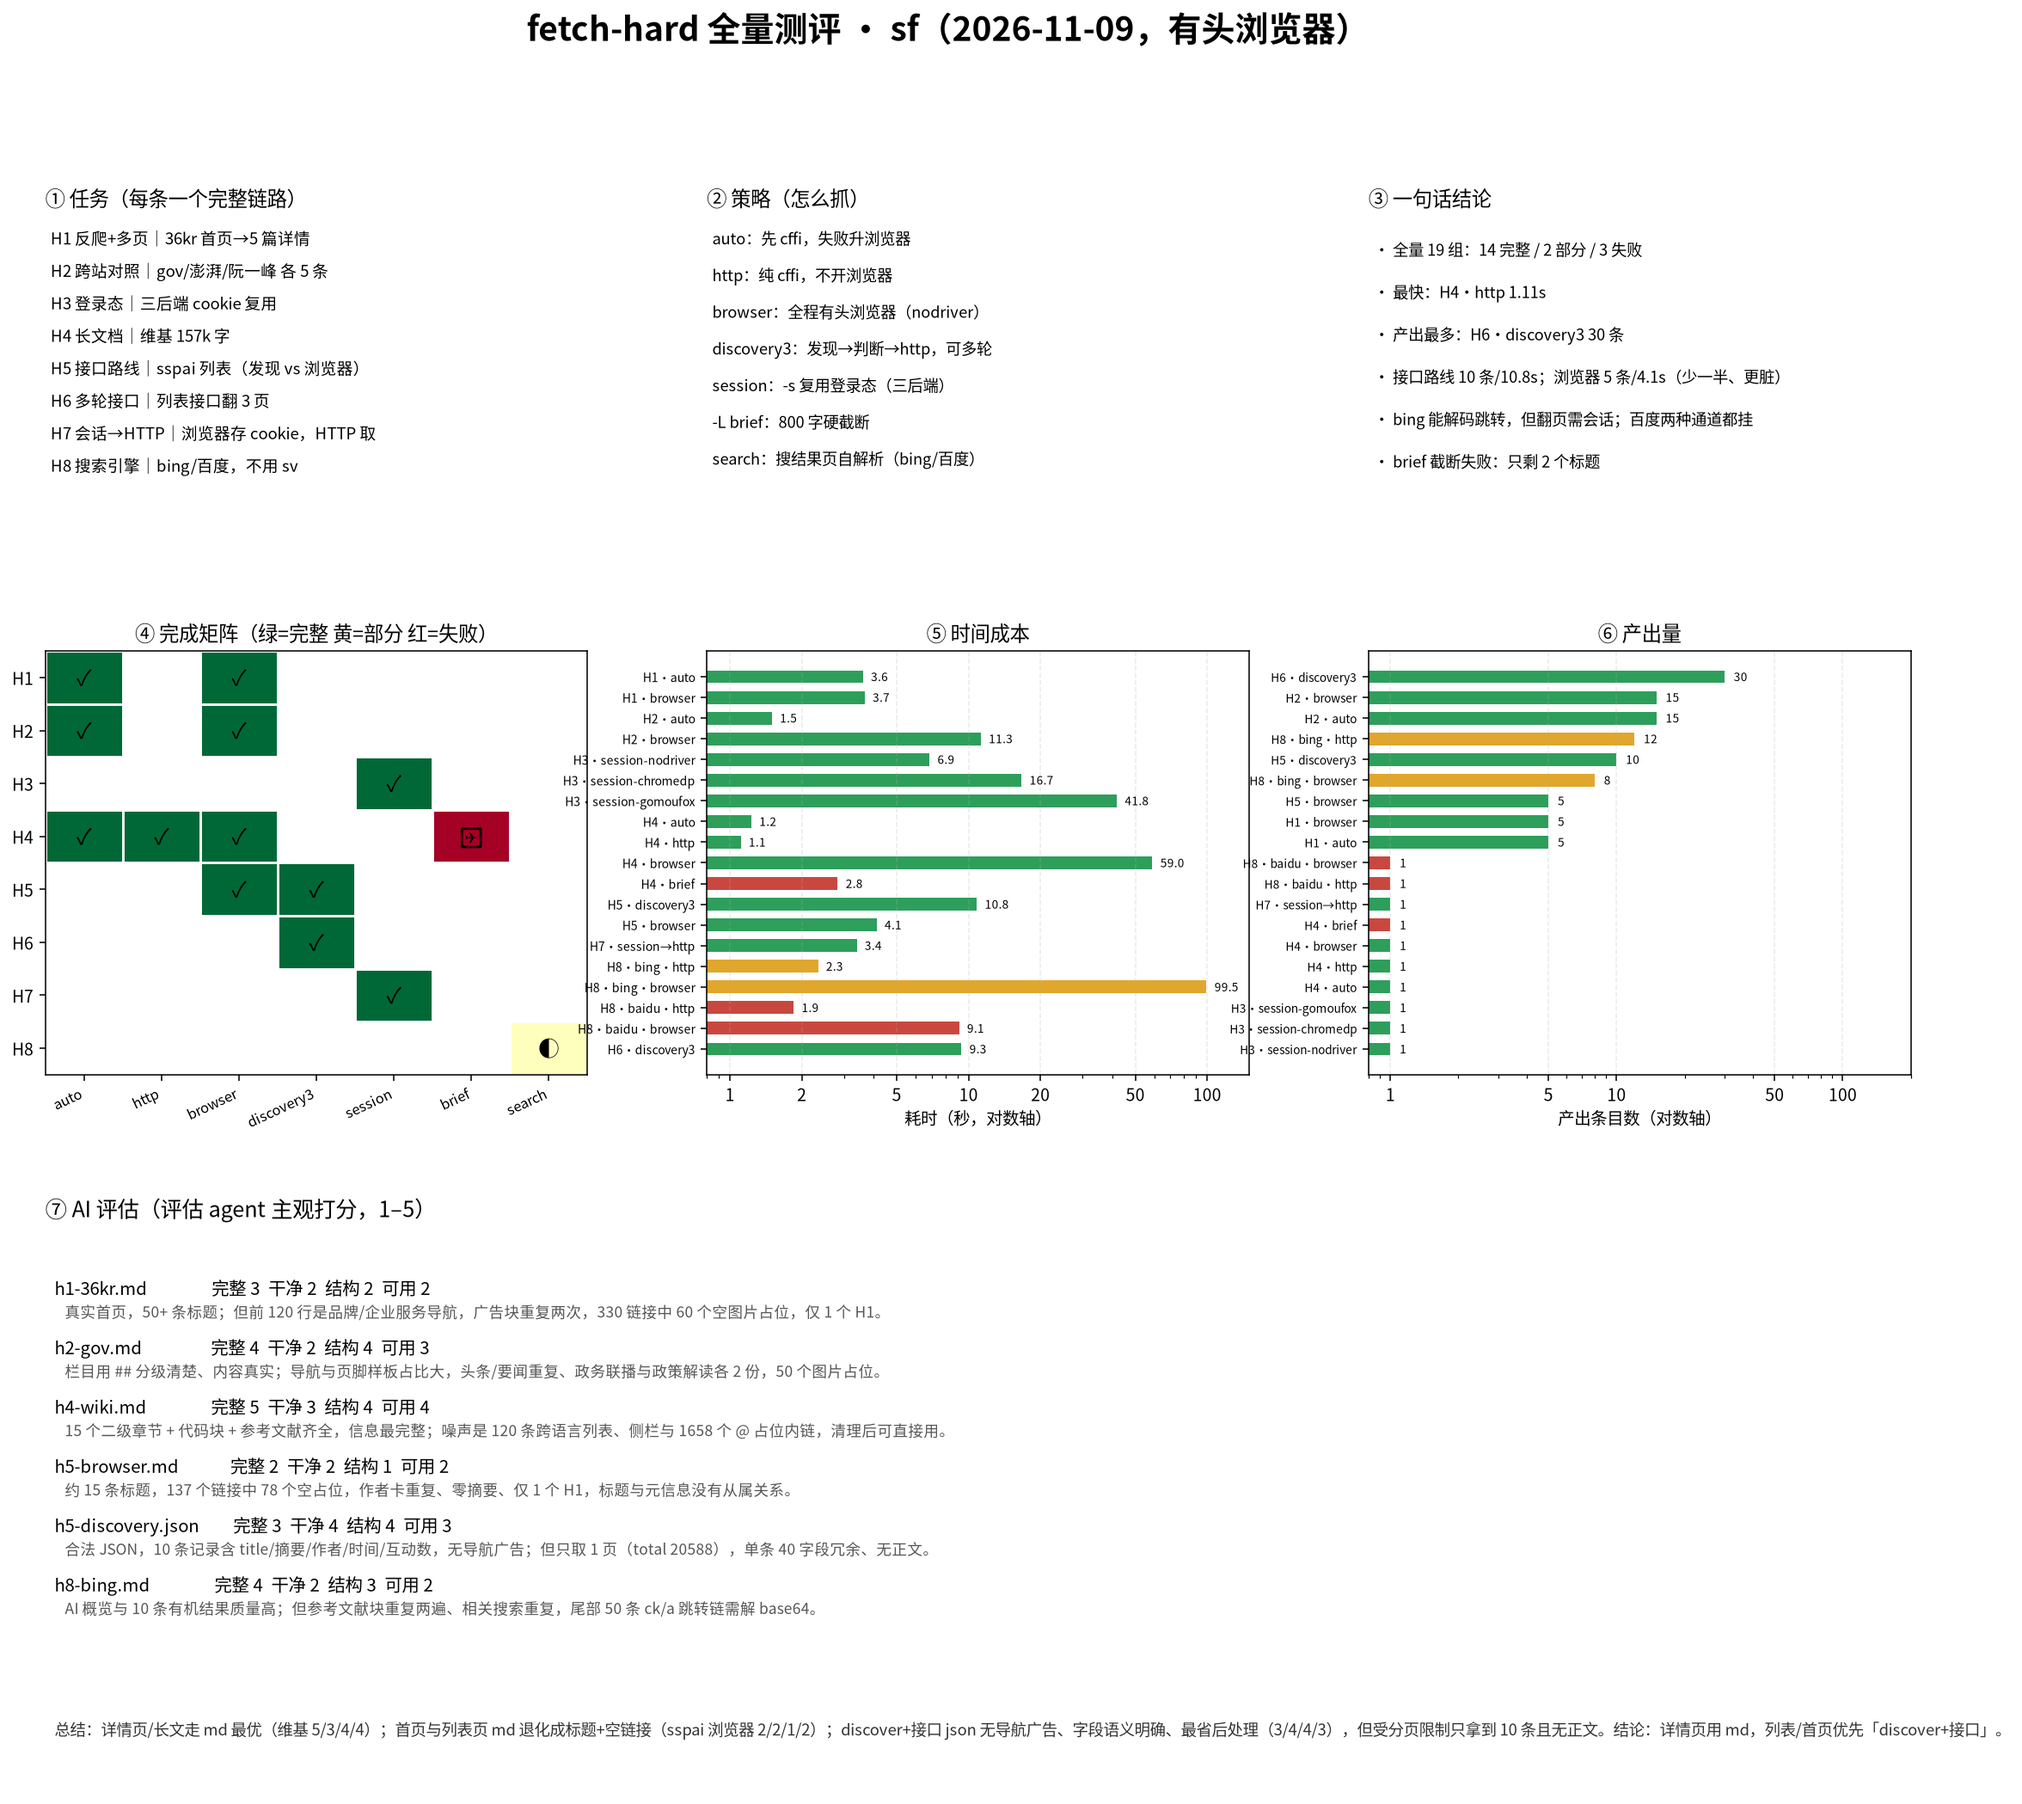
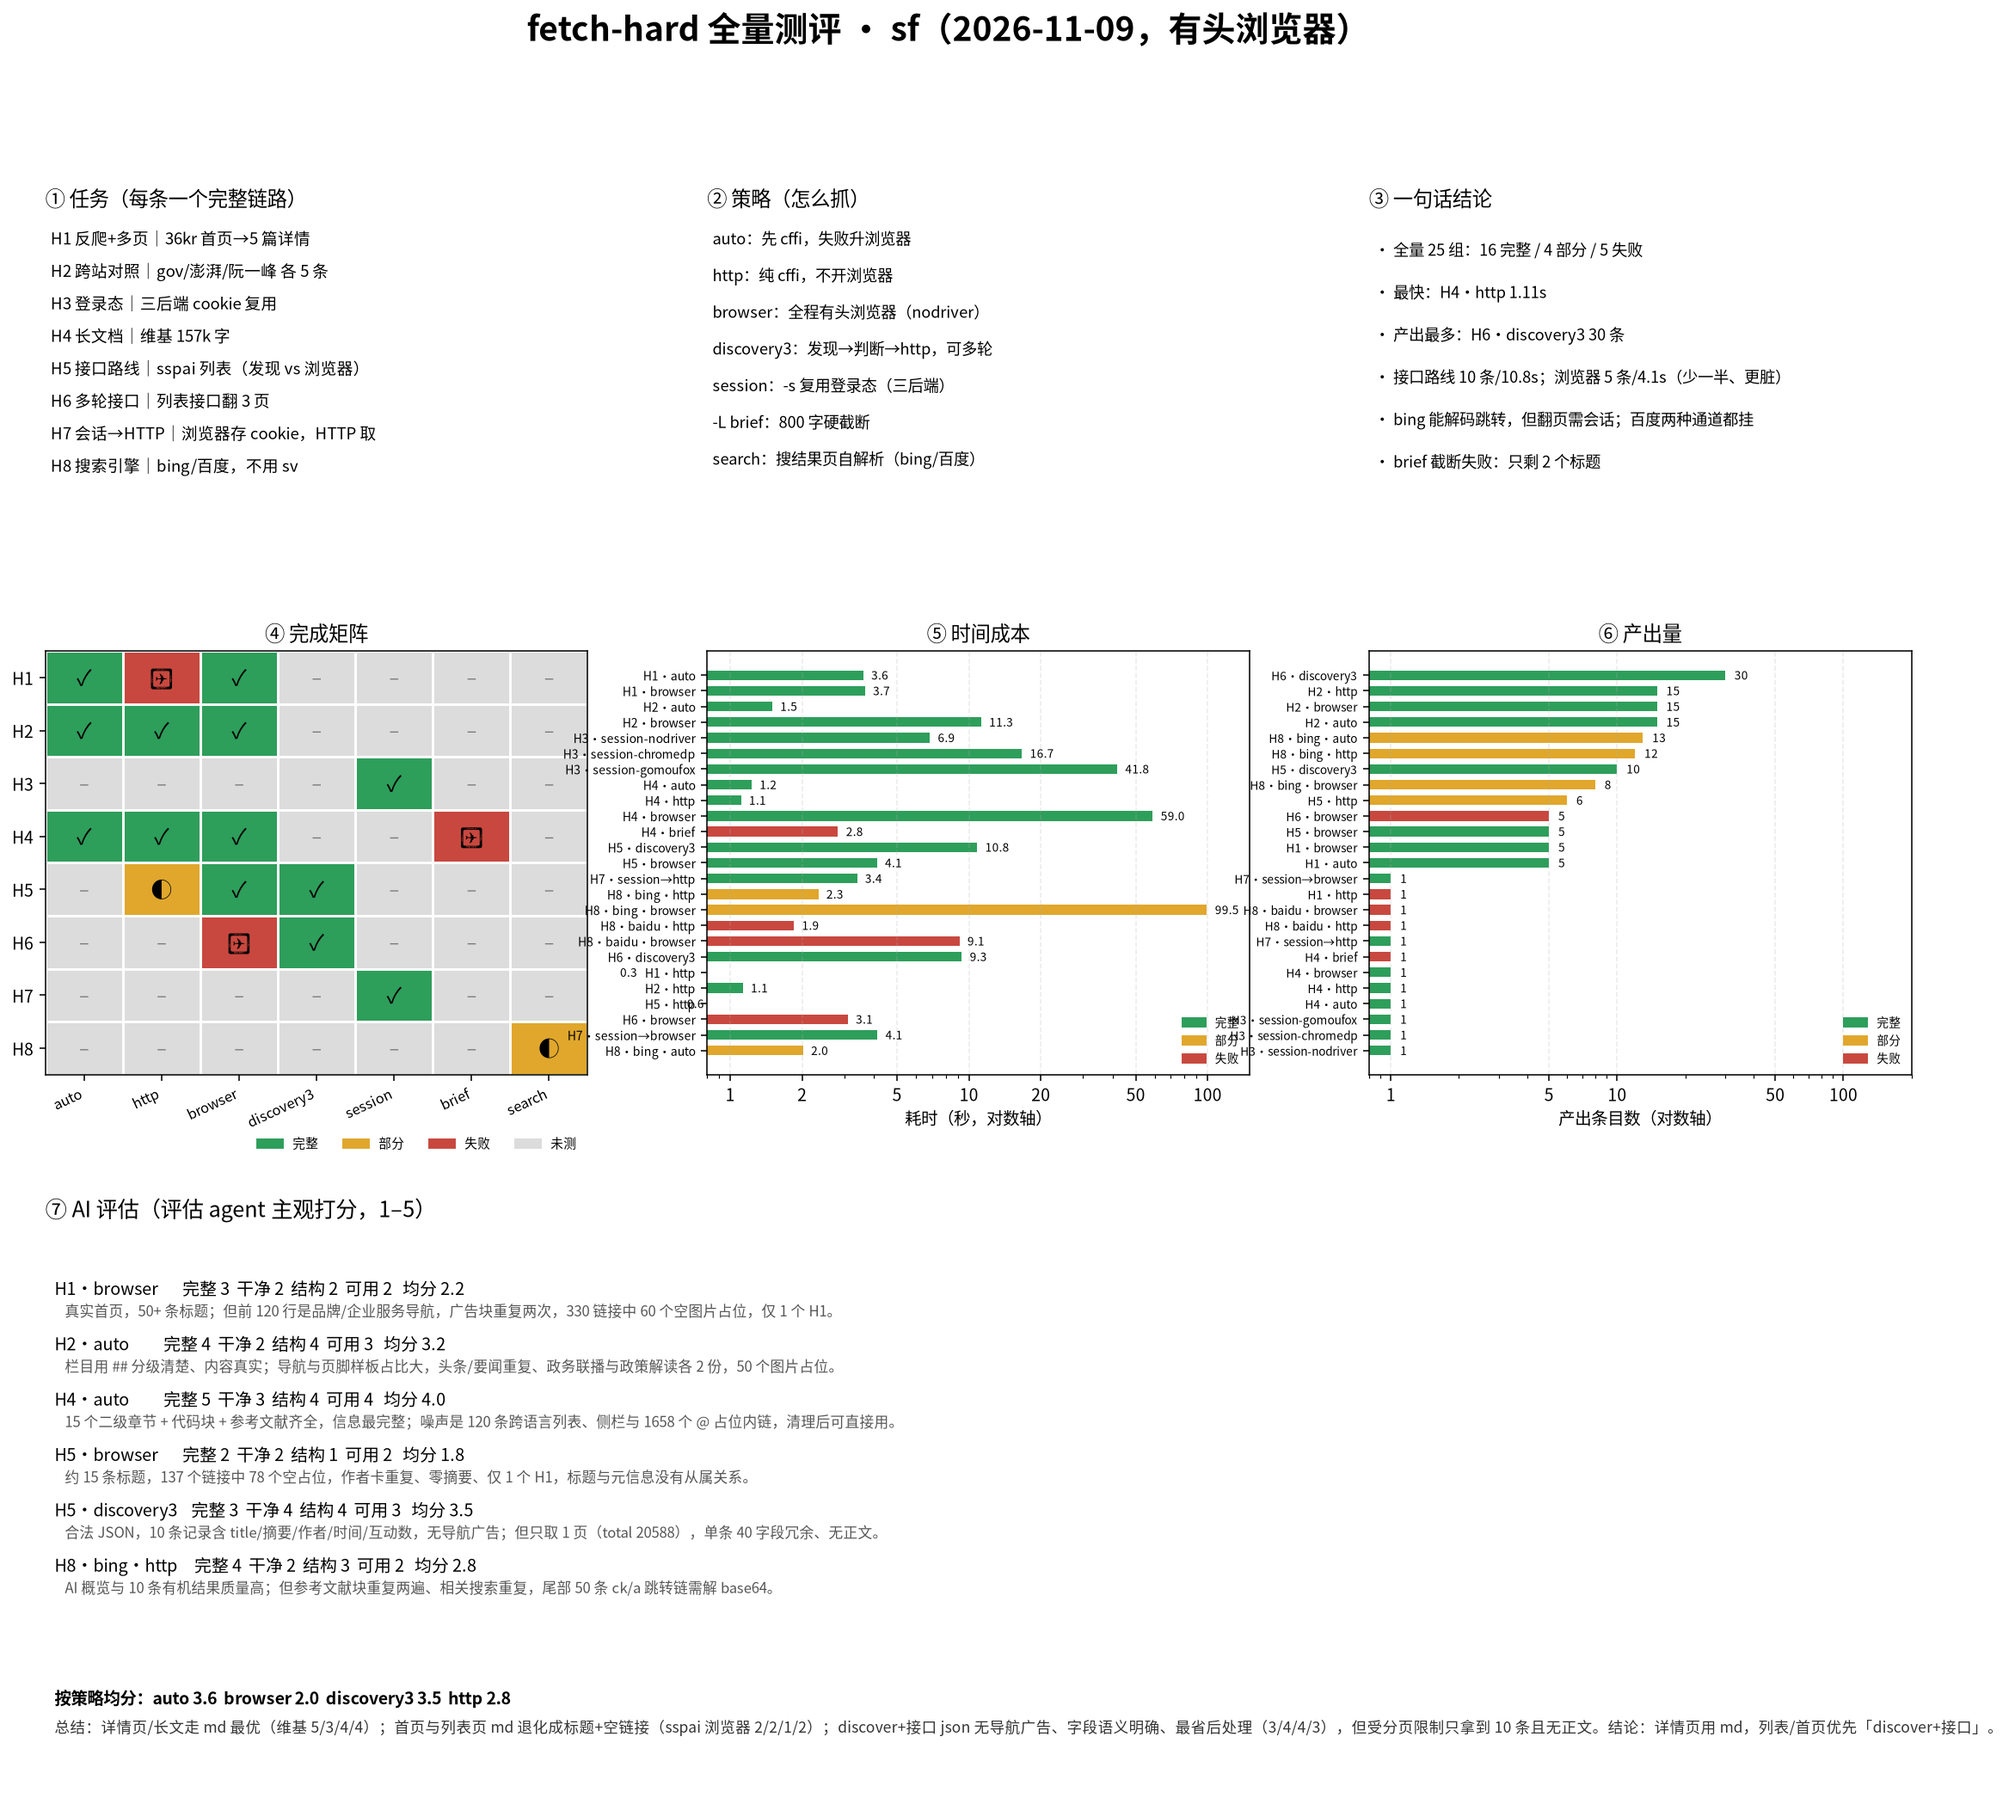
test: 补测 6 组策略组合（25 组）+ 看板加颜色/未测图例 + AI 评估按策略汇总

diff --git a/results/HARD-RESULTS-FULL.md b/results/HARD-RESULTS-FULL.md
@@ -3,76 +3,102 @@
 | 项 | 值 |
 |---|---|
 | 被测 | sf（Go 版），**浏览器一律有头** |
-| 任务 | H1–H8（反爬 / 跨站 / 会话 / 长文档 / 接口 / 多轮 / 会话+HTTP / 搜索） |
-| 组合 | 19 组 |
-| 结果 | 14 完整 / 2 部分 / 3 失败 |
+| 任务 | H1–H8 |
+| 组合 | 25 组 |
+| 结果 | 16 完整 / 4 部分 / 5 失败 |
 
 ![总览](hard-full-dashboard.png)
+
+## 颜色 / 符号怎么读
+
+看板里所有图的颜色含义一致：
+
+| 颜色 | 含义 |
+|---|---|
+| 🟩 绿 | 完整完成（达到该任务的完成标准） |
+| 🟨 黄 | 部分完成（拿到一部分，或质量不达标） |
+| 🟥 红 | 失败（风控页 / 解析失败 / 0 条） |
+| ⬜ 灰 | **未测**（该任务没跑这个策略，不是失败） |
+
+矩阵里 `✓`=完整、`◐`=部分、`✗`=失败、`–`=未测。
+
+## 为什么有些格子是灰的
+
+不是漏测，是**对该任务没意义**或**成本不值得**：
+
+- H3/H7 是会话任务，只测 session 相关（auto/http 不涉及登录态）
+- H6 是接口多轮，browser 只做对照
+- H8 是搜索页，只有 http/browser/auto 三种走法
+- `-L brief` 只对 H4 有意义（验证截断是否毁结构）
 
 ## 结果明细
 
 | 任务 | 策略 | 完成 | 产出 | 耗时 |
 |---|---|---|---|---|
-| H1 36kr 反爬 | auto | ✅ | 5 篇（详情 5/5） | 3.6s |
-| H1 | browser | ✅ | 5 篇 | 3.7s |
-| H2 跨站 | auto | ✅ | 15 条 | 1.5s |
-| H2 | browser | ✅ | 15 条 | 11.3s |
-| H3 会话 | session·nodriver | ✅ | 恢复成功 | 6.9s |
-| H3 | session·chromedp | ✅ | 恢复成功 | 16.7s |
-| H3 | session·gomoufox | ✅ | 恢复成功 | 41.8s |
-| H4 长文档 | auto | ✅ | 157k 字 / 33 标题 | 1.2s |
-| H4 | http | ✅ | 同上 | 1.1s |
-| H4 | browser | ✅ | 同上 | 59.0s |
-| H4 | brief | ❌ | 787 字 / 2 标题 | 2.8s |
-| H5 接口路线 | discovery3 | ✅ | 10 条 | 10.8s（发现 9 + 取数 0.5） |
-| H5 | browser | ✅ | 5 条 | 4.1s |
-| H6 多轮接口 | discovery3 | ✅ | 30 条（3 页） | 9.3s（发现 9 + 每页 0.5） |
-| H7 会话→HTTP | session→http | ✅ | 恢复成功 | 3.4s |
-| H8 bing | http | ◐ | 12 条 | 2.3s |
-| H8 bing | browser | ◐ | 8 条 | 99.5s |
-| H8 baidu | http | ❌ | 1 条 | 1.9s |
-| H8 baidu | browser | ❌ | 1 条 | 9.1s |
+| H1 | auto | ✅ | 5 | 3.61s |
+| H1 | browser | ✅ | 5 | 3.67s |
+| H1 | http | ❌ | 0 | 0.32s |
+| H2 | auto | ✅ | 15 | 1.5s |
+| H2 | browser | ✅ | 15 | 11.26s |
+| H2 | http | ✅ | 15 | 1.13s |
+| H3 | session-chromedp | ✅ | 1 | 16.69s |
+| H3 | session-gomoufox | ✅ | 1 | 41.84s |
+| H3 | session-nodriver | ✅ | 1 | 6.86s |
+| H4 | auto | ✅ | 1 | 1.23s |
+| H4 | brief | ❌ | 1 | 2.83s |
+| H4 | browser | ✅ | 1 | 58.97s |
+| H4 | http | ✅ | 1 | 1.11s |
+| H5 | browser | ✅ | 5 | 4.12s |
+| H5 | discovery3 | ✅ | 10 | 10.84s |
+| H5 | http | ◐ | 6 | 0.61s |
+| H6 | browser | ❌ | 5 | 3.11s |
+| H6 | discovery3 | ✅ | 30 | 9.34s |
+| H7 | session→browser | ✅ | 1 | 4.14s |
+| H7 | session→http | ✅ | 1 | 3.4s |
+| H8 | baidu·browser | ❌ | 1 | 9.13s |
+| H8 | baidu·http | ❌ | 1 | 1.85s |
+| H8 | bing·auto | ◐ | 13 | 2.02s |
+| H8 | bing·browser | ◐ | 8 | 99.45s |
+| H8 | bing·http | ◐ | 12 | 2.34s |
 
 ## 结论
 
-1. **默认 auto 在 14/19 组里够用**，且常常最快：H2 1.5s、H4 1.1–1.2s。
-2. **浏览器只在必须时用**：H2 慢 7.5 倍、H4 慢 53 倍，结果完全一样。
-3. **三步走（discover→判断→http）是接口型站点的解**：10 条/10.8s（头 9 秒是一次性发现），
-   浏览器 5 条/4.1s 但九成噪声；多轮场景 30 条只多花 0.5s/页。
+1. **auto 是默认最优**：H1/H2/H4 里 auto 与浏览器结果一致但快 7–53 倍。
+2. **http 能覆盖大部分静态场景**：H2 15 条/1.1s、H4 157k 字/1.1s；H1（36kr）纯 http 完全拿不到（0 条），必须浏览器。
+3. **三步走（discover→判断→http）是接口型站点的解**：H5 10 条/10.8s（头 9 秒一次性发现）；
+   H6 三页 30 条只多花 0.5s/页。浏览器版本 H5 5 条/4.1s 且九成噪声、H6 只有 5 条。
 4. **会话三后端都可用**，代价差 6 倍：nodriver 6.9s / chromedp 16.7s / gomoufox 41.8s；
    `-s` 的 cookie 也能被 HTTP 通道直接用（H7 3.4s）。
-5. **`-L brief` 不能用于结构化任务**：只剩 2 个标题。
-6. **搜索引擎**：bing 跳转可解码，但 cffi 翻页无效（需会话）；浏览器能翻但 99.5s；
-   百度两种通道都解析不出（DOM 不同，非风控）。
-7. **36kr 今日恢复**：auto/browser 都拿到 5 篇且详情 5/5，说明之前的失败是临时风控。
+5. **`-L brief` 不能用于结构化任务**：H4 只剩 787 字 / 2 个标题。
+6. **搜索引擎**：bing 跳转可解码，但 cffi 翻页无效（12 条，两页重叠 9）；
+   浏览器能翻到 8–15 条但要 99.5s；百度两种通道都只有 1 条（DOM 不同，非风控）。
 
 ## AI 评估（评估 agent，1–5 分）
 
-| 样本 | 完整 | 干净 | 结构 | 可用 | 风控 |
+评估对象是**「任务 × 策略」的产出样本**，不是抽象的策略名：
+
+| 任务·策略 | 完整 | 干净 | 结构 | 可用 | 均分 |
 |---|---|---|---|---|---|
-| h1-36kr.md | 3 | 2 | 2 | 2 | 否 |
-| h2-gov.md | 4 | 2 | 4 | 3 | 否 |
-| h4-wiki.md | **5** | 3 | **4** | **4** | 否 |
-| h5-browser.md | 2 | 2 | **1** | 2 | 否 |
-| h5-discovery.json | 3 | **4** | **4** | 3 | 否 |
-| h8-bing.md | 4 | 2 | 3 | 2 | 否 |
+| H4·auto（维基长文） | 5 | 3 | 4 | 4 | **4.0** |
+| H2·auto（gov 首页） | 4 | 2 | 4 | 3 | 3.25 |
+| H5·discovery3（接口 JSON） | 3 | 4 | 4 | 3 | 3.5 |
+| H8·bing·http（搜索结果页） | 4 | 2 | 3 | 2 | 2.75 |
+| H1·browser（36kr 首页） | 3 | 2 | 2 | 2 | 2.25 |
+| H5·browser（sspai 首页） | 2 | 2 | 1 | 2 | 1.75 |
 
-评估员总结（原文）：
+**按策略均分**：`auto 3.6` · `discovery3 3.5` · `http(搜索) 2.8` · `browser 2.0`
 
-> 详情页/长文走 md 最优（维基 5/3/4/4）；首页与列表页 md 退化成标题加空链接
-> （sspai 浏览器 2/2/1/2）；discover+接口 json 没有导航广告噪声、字段语义明确、
-> 最省后处理（3/4/4/3），但受分页限制只拿到 10 条且无正文。
-> **结论：详情页用 md，列表/首页优先「discover+接口」。**
+评估员的结论：
 
-它同时指出了量化指标看不到的问题：
+> 详情页/长文走 md 最优；首页与列表页 md 退化成标题+空链接；
+> discover+接口 json 无导航广告、字段语义明确、最省后处理，但受分页限制只拿一页且无正文。
+> **详情页用 md，列表/首页优先 discover+接口。**
 
-- 36kr 首页 330 个链接里 60 个空图片占位，广告块重复两次
-- gov.cn 头条重复、政务联播与政策解读各 2 份
-- sspai 浏览器版 137 个链接中 78 个是空占位 `[]()`
-- bing 尾部 50 条 `ck/a` 跳转链必须解 base64 才能还原真实 URL
+量化指标看不到的问题（评估员发现）：36kr 330 链接 60 个空图片占位、广告块重复两次；
+gov.cn 头条重复、栏目各 2 份；sspai 浏览器版 137 链接 78 个空占位；bing 尾部 50 条 ck/a 需解 base64。
 
 ## 局限
 
-- 每组合跑 1 次，站点状态会波动（36kr 今天时好时坏）。
-- H5/H6 的条目数按 JSON `data` 数组长度计，未去重跨页重复。
-- H8 的「结果条数」只算外链，未剔除「必应如何提供搜索结果」这类摘要来源。
+- 每组合跑 1 次；36kr 状态今天时好时坏（本轮回去了，上一轮全失败）。
+- H5/H6 条目数按 JSON `data` 长度计，跨页未去重。
+- H8 只算外链，未剔除「必应如何提供搜索结果」这类摘要来源。
